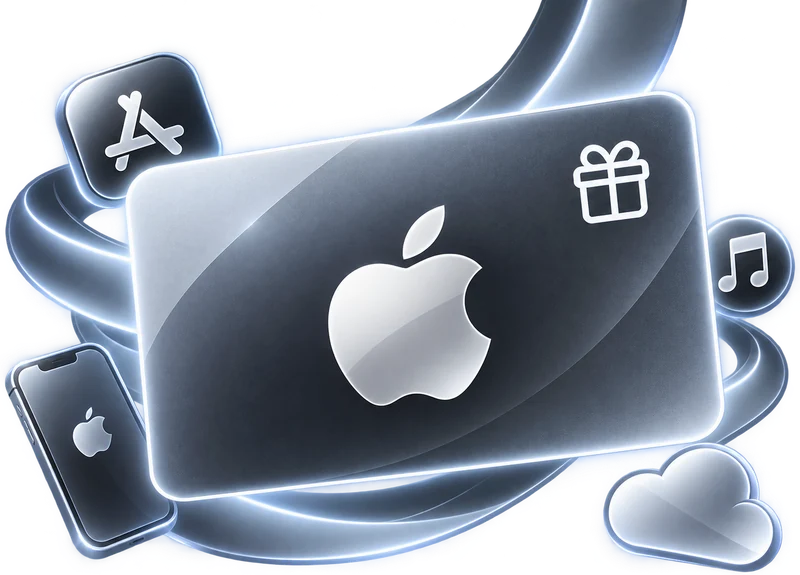
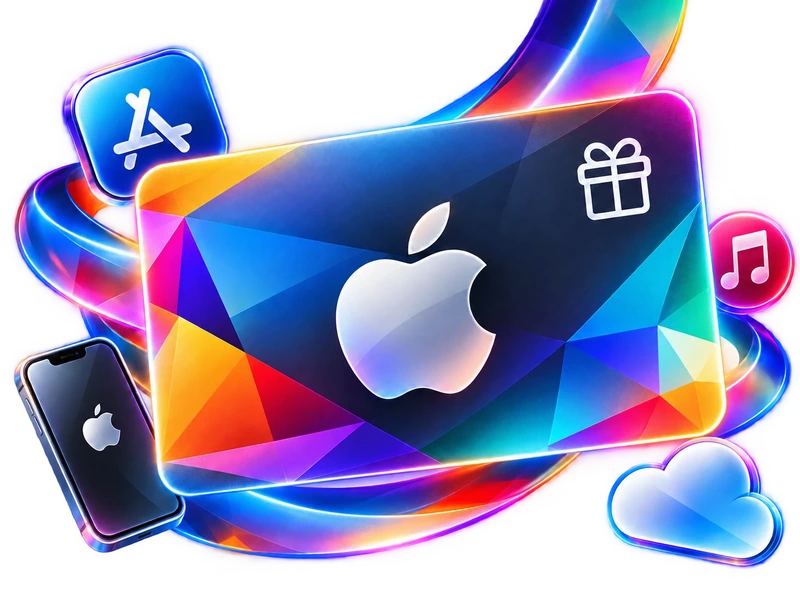
fix(web): refresh the Apple gift card cover art and its halo accent
Replaces the Apple cover with the new App Store/Music/gift/iCloud
promotional render, and re-samples --art-accent to match its dominant
vivid hue (was a pale #9CB9E2 left over from the previous cover).

diff --git a/apps/web/src/app/globals.css b/apps/web/src/app/globals.css
@@ -465,7 +465,7 @@ a { color:inherit; text-decoration:none; }
  * `.catalog-art-photo` gives every one of them the same navy well. */
 .product-art.airbnb { --art-accent:#EB3854; }
 .product-art.amazon { --art-accent:#EE701B; }
-.product-art.apple { --art-accent:#9CB9E2; }
+.product-art.apple { --art-accent:#2783E3; }
 .product-art.blizzard { --art-accent:#239AE6; }
 .product-art.fortnite { --art-accent:#6F1AEF; }
 .product-art.free-fire { --art-accent:#F86B11; }
